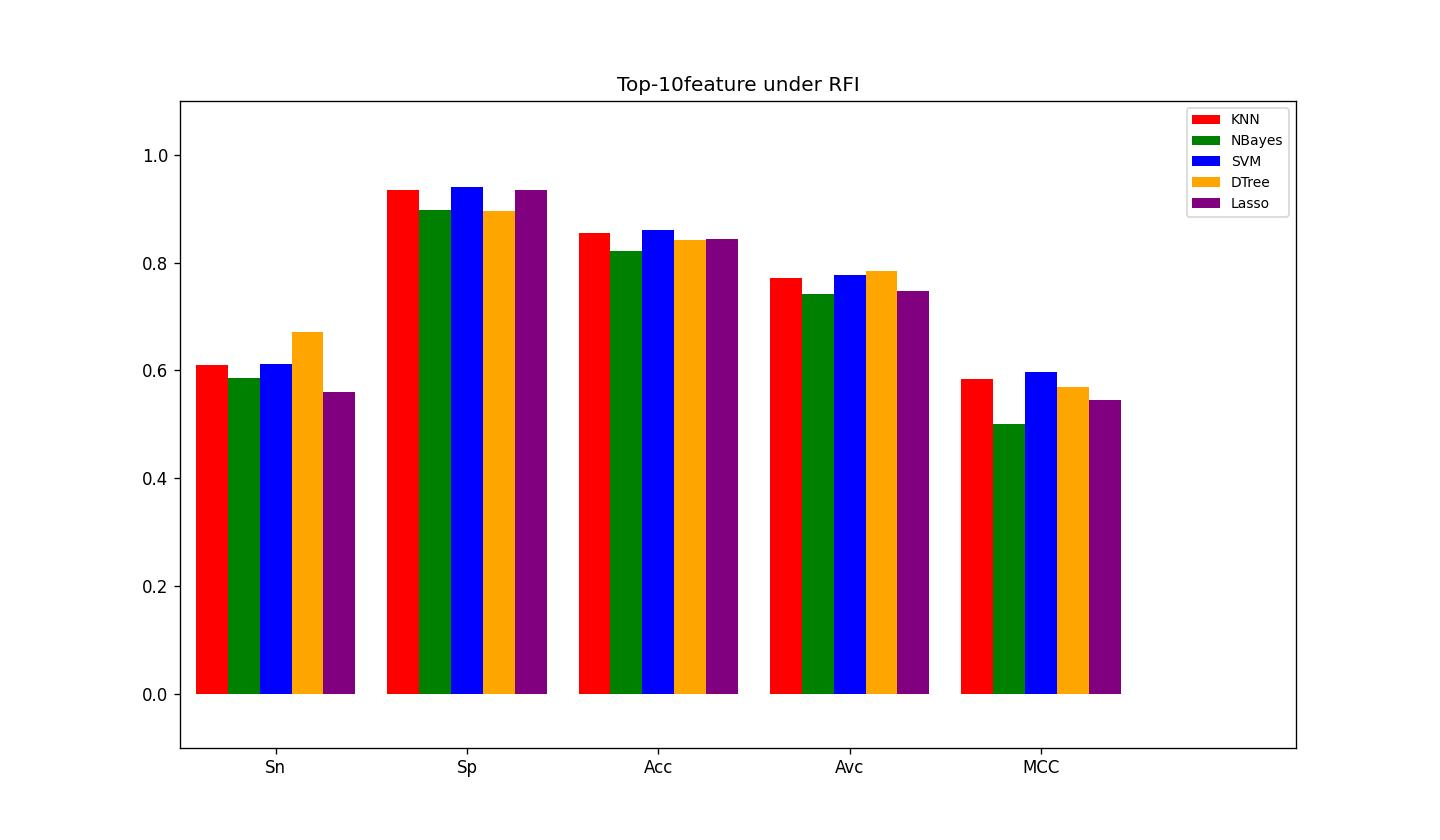
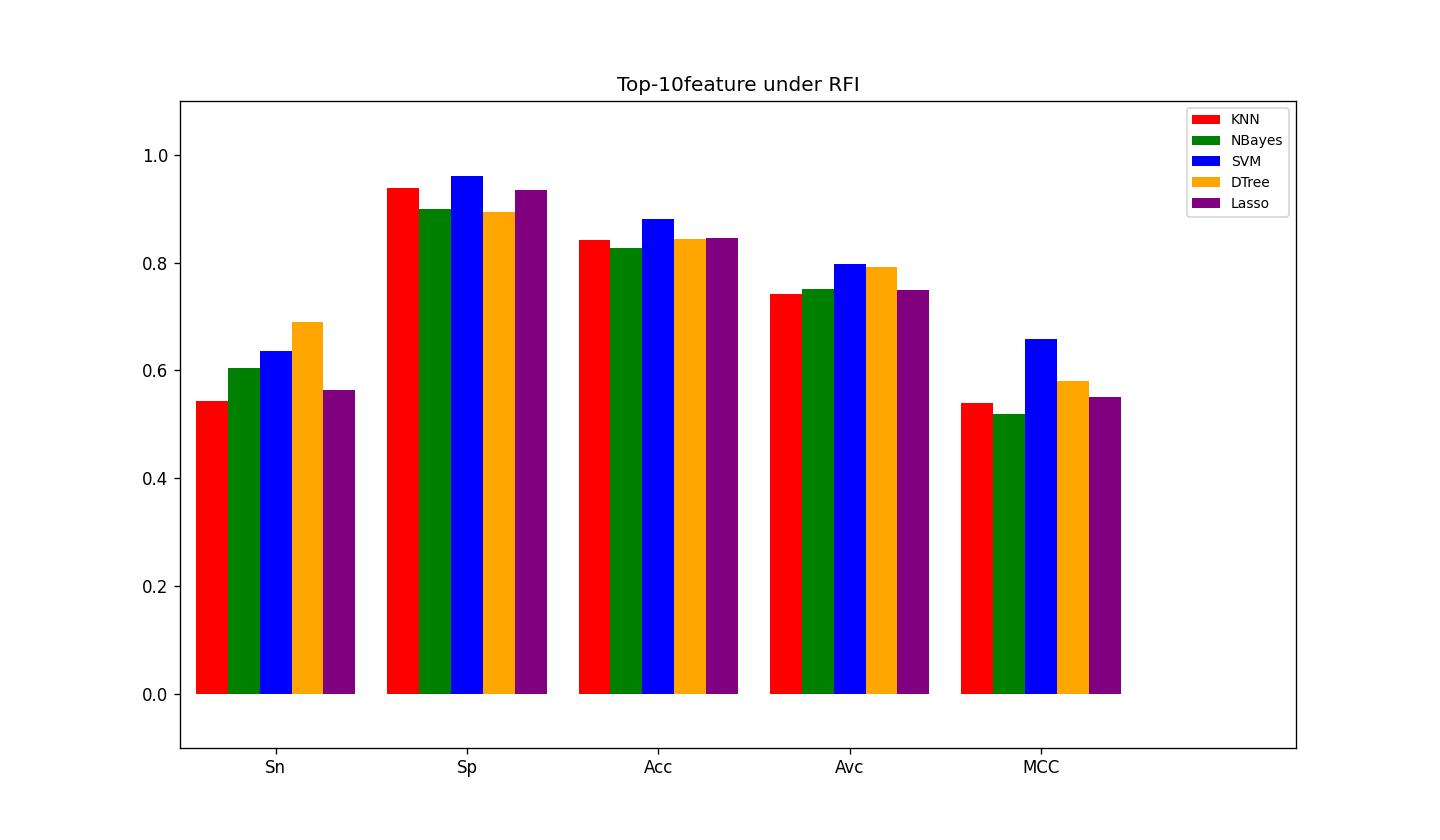
commit 2

diff --git a/test.py b/test.py
@@ -18,6 +18,8 @@
 from scipy import stats
 from sklearn import svm
 from sklearn import tree
+from sklearn.metrics import classification_report
+from sklearn.model_selection import GridSearchCV
 from sklearn.linear_model import Lasso,LassoCV,LassoLarsCV
 from sklearn.linear_model import LogisticRegression
 from sklearn.feature_selection import SelectFromModel
@@ -27,11 +29,15 @@ import os
 import seaborn as sns
 import numpy as np
 import math
+from sklearn.pipeline import Pipeline
 import random
 from sklearn.preprocessing import StandardScaler
 from sklearn.preprocessing import MinMaxScaler
 from sklearn.preprocessing import RobustScaler
 from sklearn.ensemble import RandomForestClassifier
+from sklearn.tree import DecisionTreeClassifier
+
+
 def fLoadDataMatrix(filename):
     with open(filename, 'r') as fr:
         lines = fr.readlines()
@@ -245,12 +251,13 @@ def evaluate(predict, origin):
         result[4] = x1 / math.sqrt(x2)
     return result
 
-def cross_validation_one_round(t_data,t_class,group_N,group_P,conf):
+def cross_validation_one_round(t_data,t_class,group_N,group_P,conf,fw):
     k = int(conf['K_cross'])
     k_KNN = int(conf['K_KNN'])
     result = np.zeros((5, 5))
 
     for cnt in range(k):
+        print("fold"+str(cnt),file=fw)
         test_group = group_N[cnt] + group_P[cnt]
         train_group = []
         for i in range(k):
@@ -281,19 +288,34 @@ def cross_validation_one_round(t_data,t_class,group_N,group_P,conf):
         #######################
         #        SVC          #
         #######################
-        model_SVC = svm.SVC(kernel='linear')    # slow
-        #ConvergenceWarning: Solver terminated early (max_iter=1000).  Consider pre-processing your data with StandardScaler or MinMaxScaler.
-        #warnings.warn(
-        model_SVC.fit(train_x, train_y)
-        predict_SVC = model_SVC.predict(test_x)
-
+        pipeline = Pipeline([
+            ('scaler', StandardScaler()),
+            ('svc', svm.SVC())
+        ])
+        param_grid = {
+            'svc__C': [0.1, 1, 3,  5 , 10, 100],
+            'svc__kernel': ['linear', 'poly', 'rbf', 'sigmoid'],
+            'svc__gamma': ['scale', 'auto']
+        }
+        grid_search = GridSearchCV(pipeline, param_grid, cv=5, n_jobs=-1)
+        grid_search.fit(train_x, train_y)
+        print("Best parameters for SVC found:", grid_search.best_params_,file=fw)
+        best_SVC_model = grid_search.best_estimator_
+        predict_SVC = best_SVC_model.predict(test_x)
         #######################
         #        dtree        #
         #######################
-        model_dtree = tree.DecisionTreeClassifier(criterion='entropy')
-        model_dtree.fit(train_x, train_y)
-        predict_dtree = model_dtree.predict(test_x)
-
+        param_grid = {
+            'criterion': ['gini', 'entropy', 'log_loss'],
+            'max_depth': [None, 5, 10, 15],
+            'min_samples_split': [2, 5, 10]
+        }
+        model_dtree = DecisionTreeClassifier()
+        grid_search = GridSearchCV(model_dtree, param_grid, cv=5, n_jobs=-1)
+        grid_search.fit(train_x, train_y)
+        print("Best parameters for dtree found:", grid_search.best_params_,file=fw)
+        best_model = grid_search.best_estimator_
+        predict_dtree = best_model.predict(test_x)
         #######################
         #        Lasso        #
         #######################
@@ -310,7 +332,8 @@ def cross_validation_one_round(t_data,t_class,group_N,group_P,conf):
         ev5 = evaluate(predict_Lasso, test_y)
         result += np.asarray([ev1, ev2, ev3, ev4, ev5])
     return  result / k
-def cross_validation(sorted_indices,t_class,t_matrix,conf,class_N,class_P):
+def cross_validation(sorted_indices,t_class,t_matrix,conf,class_N,class_P,):
+    fw = open(os.path.join(conf["Output_dir"], conf["cross_statistic"]), "w")
     k=int(conf['K_cross'])
     random.shuffle(class_N)
     random.shuffle(class_P)
@@ -325,15 +348,14 @@ def cross_validation(sorted_indices,t_class,t_matrix,conf,class_N,class_P):
         test_indices = [int(conf[f"subplot{i + 1}"]) for i in range(3)]
         for i in range(3):
             t_data = t_matrix[:,sorted_indices[:test_indices[i]]]
-            result.append( cross_validation_one_round(t_data,t_class,group_N, group_P,conf) )
+            result.append( cross_validation_one_round(t_data,t_class,group_N, group_P,conf,fw) )
         t_data = t_matrix[:,sorted_indices[-5:]]
-        result.append(cross_validation_one_round(t_data, t_class, group_N, group_P, conf))
+        result.append(cross_validation_one_round(t_data, t_class, group_N, group_P, conf,fw))
     else:
         t_data = t_matrix[:, sorted_indices]
-        result.append(cross_validation_one_round(t_data, t_class, group_N, group_P, conf))
+        result.append(cross_validation_one_round(t_data, t_class, group_N, group_P, conf,fw))
 
 
-    fw = open(os.path.join(conf["Output_dir"], conf["cross_statistic"]), "w")
     print(result,file=fw)
     fw.close()
     return  result
@@ -478,7 +500,7 @@ def perform_RFI(t_sample, t_class, t_feature, t_matrix,conf,class_N, class_P):
 
     print_histograms(result, conf)
 
-    print_heat_map(t_class, t_matrix, sorted_indices_RFI, t_feature, conf)
+    #print_heat_map(t_class, t_matrix, sorted_indices_RFI, t_feature, conf)
 try:
     conf = lord_conf('/home/violesa/PycharmProjects/pythonProject4/pbc.conf')
 except FileNotFoundError:
